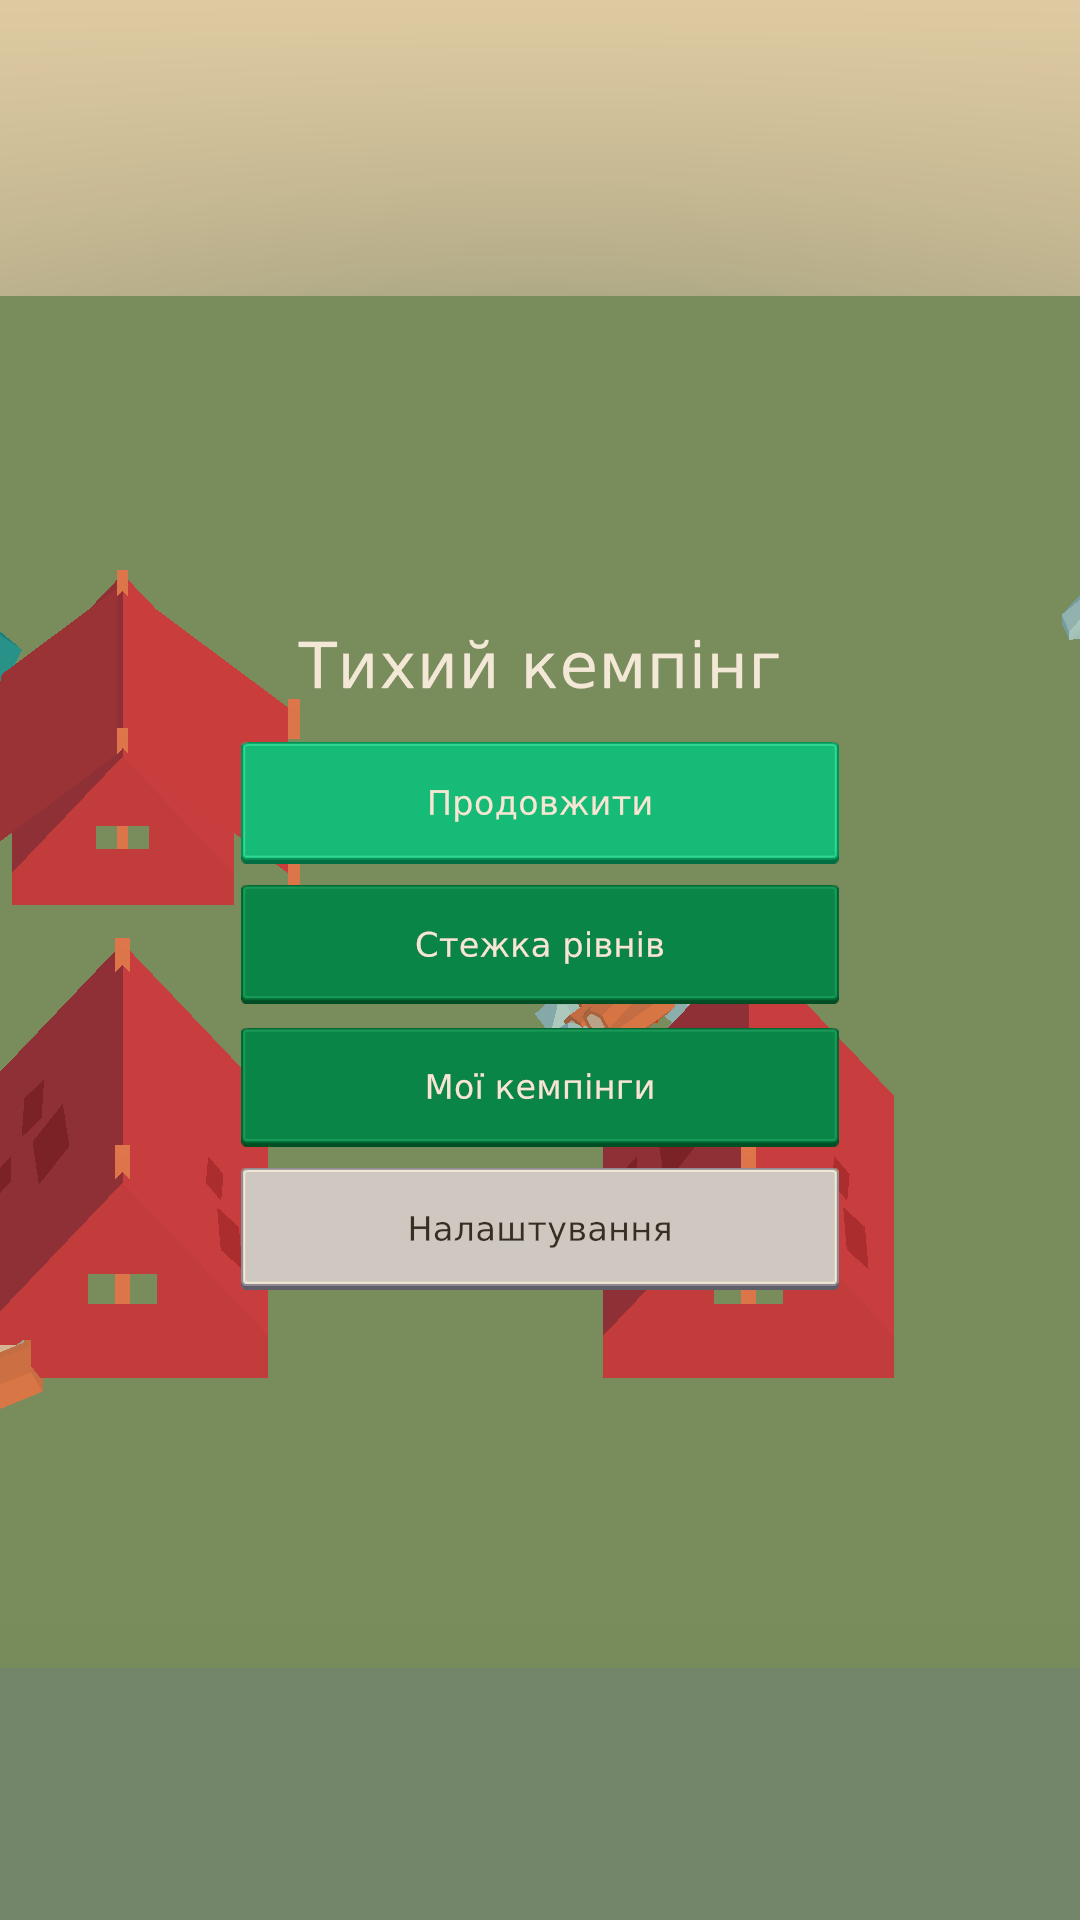
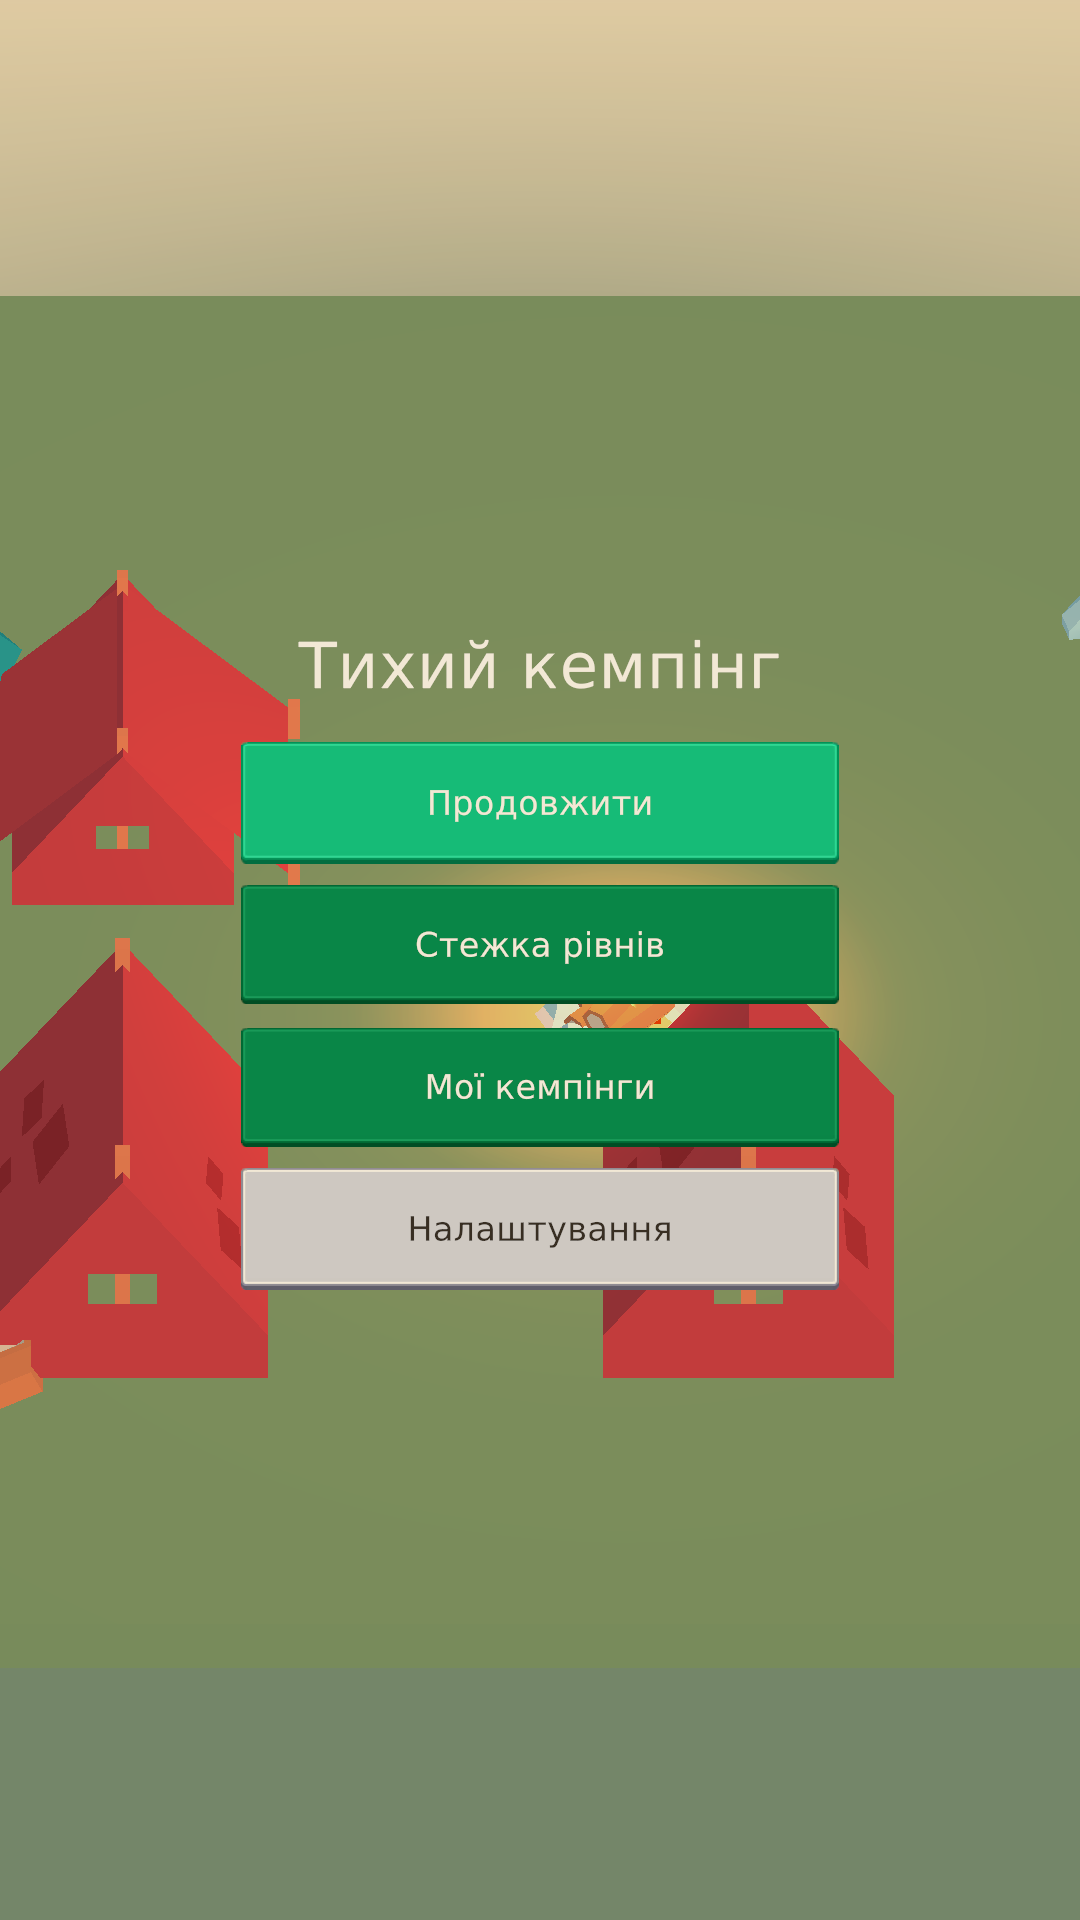
fx: wire campfire glow/flames/flicker + sway into decor spawning
FireFx now layers glow quad, crossed flame quads and a flickering
point light over the existing ember particles; DecorSpawner routes
grass/flower prefabs through the sway material cache (one material
per base color). Screenshots refreshed.

Generated with [Devin](https://devin.ai)

diff --git a/QuietCamp/Assets/QuietCamp/Scripts/Presentation/World/FireFx.cs b/QuietCamp/Assets/QuietCamp/Scripts/Presentation/World/FireFx.cs
@@ -2,8 +2,10 @@ using UnityEngine;
 namespace QuietCamp.Presentation.World
 {
     /// <summary>
-    /// Small owned campfire FX: a few warm billboards over the fire cell.
-    /// Disabled entirely under reduced motion — no particle drift, no smoke storm.
+    /// Small owned campfire FX: procedural flame quads + radial glow +
+    /// flickering point light, plus a few warm particle billboards.
+    /// Disabled entirely under reduced motion — no particle drift.
+    /// All shaders live in Always-Included so device builds keep the fire.
     /// </summary>
     public static class FireFx
     {
@@ -49,7 +51,87 @@ namespace QuietCamp.Presentation.World
             material.SetInt("_ZWrite", 0);
             material.renderQueue = (int)UnityEngine.Rendering.RenderQueue.Transparent;
             renderer.sharedMaterial = material;
+
+            AddGlow(parent);
+            AddFlames(parent);
+            AddLight(parent);
             return ps;
+        }
+
+        /// <summary>Warm radial glow lying on the ground under the logs.</summary>
+        static void AddGlow(Transform parent)
+        {
+            var shader = Shader.Find("QuietCamp/FireGlow");
+            if (shader == null) return;
+            var quad = GameObject.CreatePrimitive(PrimitiveType.Quad);
+            quad.name = "FireGlow";
+            quad.transform.SetParent(parent, false);
+            quad.transform.localPosition = new Vector3(0f, 0.06f, 0f);
+            quad.transform.localRotation = Quaternion.Euler(90f, 0f, 0f);
+            quad.transform.localScale = Vector3.one * 2.8f;
+            var col = quad.GetComponent<Collider>();
+            if (col != null) Object.Destroy(col);
+            var mat = new Material(shader);
+            mat.SetColor("_Color", new Color(1f, 0.55f, 0.2f, 0.65f));
+            mat.SetFloat("_Intensity", 1.4f);
+            mat.SetFloat("_Seed", 3.7f);
+            quad.GetComponent<Renderer>().sharedMaterial = mat;
+        }
+
+        /// <summary>Two crossed procedural flame quads — readable from any side.</summary>
+        static void AddFlames(Transform parent)
+        {
+            var shader = Shader.Find("QuietCamp/FireFlame");
+            if (shader == null) return;
+            for (var i = 0; i < 2; i++)
+            {
+                var quad = GameObject.CreatePrimitive(PrimitiveType.Quad);
+                quad.name = "Flame" + i;
+                quad.transform.SetParent(parent, false);
+                quad.transform.localPosition = new Vector3(0f, 0.42f, 0f);
+                quad.transform.localRotation = Quaternion.Euler(0f, 45f + 90f * i, 0f);
+                quad.transform.localScale = new Vector3(0.7f, 1.0f, 0.7f);
+                var col = quad.GetComponent<Collider>();
+                if (col != null) Object.Destroy(col);
+                var mat = new Material(shader);
+                mat.SetFloat("_Seed", 11f * i + 2f);
+                quad.GetComponent<Renderer>().sharedMaterial = mat;
+            }
+        }
+
+        /// <summary>Warm point light with Perlin flicker — the "volume" of the fire.</summary>
+        static void AddLight(Transform parent)
+        {
+            var go = new GameObject("FireLight");
+            go.transform.SetParent(parent, false);
+            go.transform.localPosition = new Vector3(0f, 0.8f, 0f);
+            var light = go.AddComponent<Light>();
+            light.type = LightType.Point;
+            light.color = new Color(1f, 0.55f, 0.22f);
+            light.intensity = 1.6f;
+            light.range = 6.5f;
+            light.shadows = LightShadows.None;
+            go.AddComponent<FireFlicker>();
+        }
+    }
+
+    /// <summary>Subtle Perlin flicker on a fire light.</summary>
+    public sealed class FireFlicker : MonoBehaviour
+    {
+        Light _light;
+        float _base;
+
+        void Awake()
+        {
+            _light = GetComponent<Light>();
+            _base = _light != null ? _light.intensity : 1f;
+        }
+
+        void Update()
+        {
+            if (_light == null) return;
+            var n = Mathf.PerlinNoise(Time.time * 2.6f, 0.31f);
+            _light.intensity = _base * (0.72f + 0.55f * n);
         }
     }
 }

diff --git a/QuietCamp/Assets/QuietCamp/Scripts/Presentation/World/DecorSpawner.cs b/QuietCamp/Assets/QuietCamp/Scripts/Presentation/World/DecorSpawner.cs
@@ -130,8 +130,35 @@ namespace QuietCamp.Presentation.World
             var go = Object.Instantiate(entry.prefab, root);
             go.transform.localPosition = pos;
             go.transform.localEulerAngles = new Vector3(0f, yaw, 0f);
+            if (assetId == "grass" || assetId.StartsWith("flower"))
+                ApplySway(go);
             SetLayer(go, BoardRenderer.DecorLayer);
         }
+
+        /// <summary>
+        /// Swaps grass/flower materials to the breeze-sway shader, preserving
+        /// each renderer's base color. One shared material per color.
+        /// </summary>
+        static void ApplySway(GameObject go)
+        {
+            var shader = Shader.Find("QuietCamp/FoliageSway");
+            if (shader == null) return;
+            _swayMats ??= new Dictionary<Color, Material>();
+            foreach (var r in go.GetComponentsInChildren<Renderer>())
+            {
+                var src = r.sharedMaterial;
+                var c = src != null && src.HasProperty("_BaseColor")
+                    ? src.GetColor("_BaseColor") : Color.white;
+                if (!_swayMats.TryGetValue(c, out var mat))
+                {
+                    mat = new Material(shader);
+                    mat.SetColor("_BaseColor", c);
+                    _swayMats[c] = mat;
+                }
+                r.sharedMaterial = mat;
+            }
+        }
+        static Dictionary<Color, Material> _swayMats;
 
         static GameObject Primitive(PrimitiveType type, string name, Transform parent,
             Vector3 scale, Vector3 localPos, Color color)
